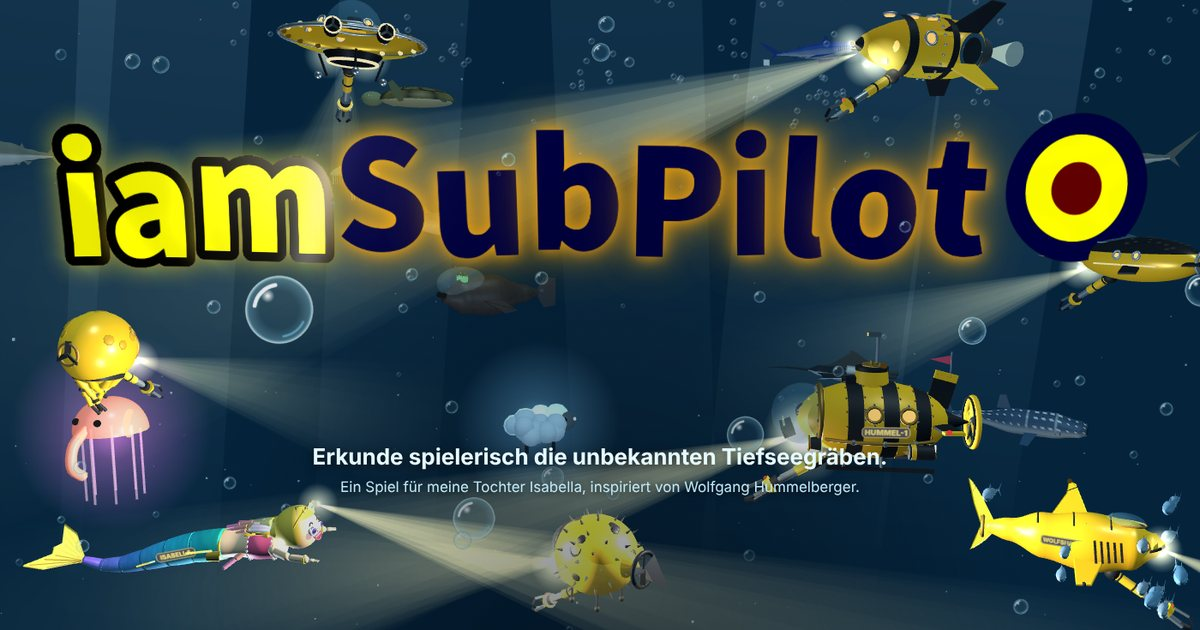
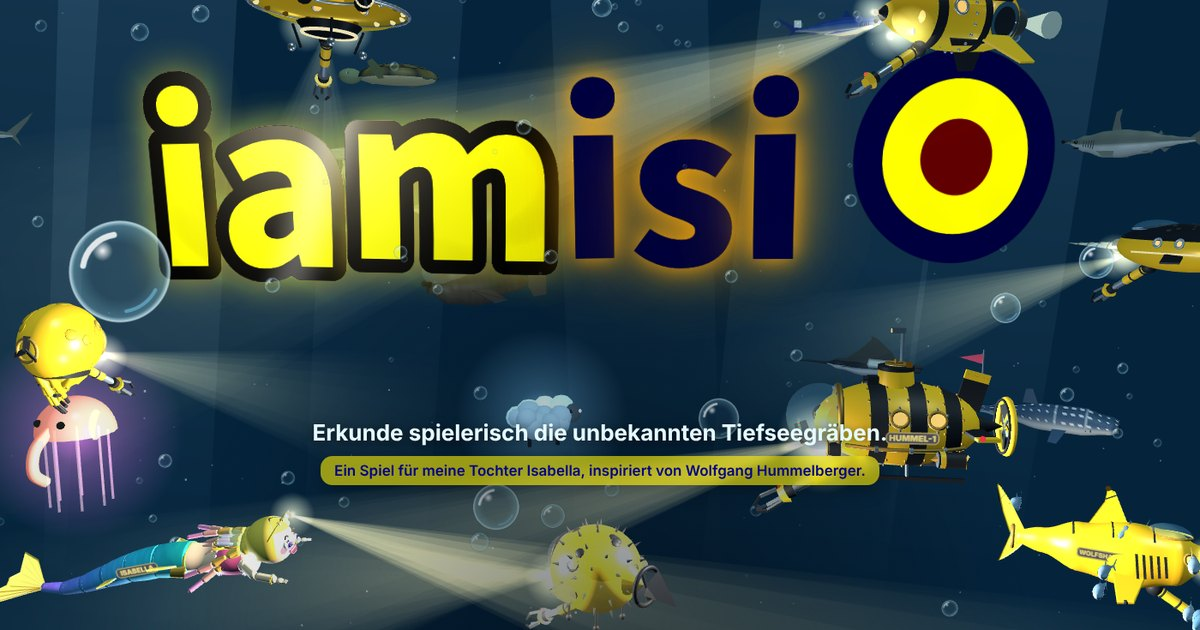
v0.10.0: the game is now called iamisi
- new name everywhere: wordmark, title animation, page title, link preview, privacy page
- 'isi' stands for Isabella and sounds like 'easy' – explained in the info text
- info text: observed deep seafloor compared with Austria (not even a twentieth, about Burgenland),
  Mars sentence bold italic, key words bold; Statistik Austria added to the sources
- title screen: dedication in a transparent yellow box
- repo, Pages URL and Netlify site keep their old names

Claude-Session: https://claude.ai/code/session_01LbVwi8JJQ37GBNhmuEaFEf

diff --git a/js/i18n.js b/js/i18n.js
@@ -323,8 +323,8 @@ const STRINGS = {
     mpNoRoomsCreate: 'No open room found – create a new one below!',
     infoKicker: 'Radio message from HMS Andrew',
     infoTitle: 'The last great journey of discovery on Earth',
-    infoP1: 'The deep sea – everything below 200 metres – covers about two thirds of our planet. Yet people have seen <b>less than 0.001%</b> of its floor with cameras or their own eyes: all together an area smaller than a tenth of Belgium. Only about <b>a quarter</b> of the seafloor has even been mapped in detail. We know more about the surface of Mars.',
-    infoP2: 'So down there, countless animals, landscapes and mysteries are waiting that no human has ever seen. iamSubPilot wants to make you curious about exactly that – playfully, but with real depths, real animals and real facts. Who knows: maybe you are the one who will one day discover a new species, map a trench or build a sub that dives deeper than any before.',
+    infoP1: 'The <b>deep sea</b> – everything below 200 metres – covers about <b>two thirds of our planet</b>. Yet people have seen <b>less than 0.001%</b> of its floor with cameras or their own eyes: all together <b>not even a twentieth of the area of Austria</b> – roughly the size of the Austrian state of Burgenland. Only about <b>a quarter</b> of the seafloor has even been mapped in detail. <b><i>We know more about the surface of Mars.</i></b>',
+    infoP2: 'So down there, <b>countless animals, landscapes and mysteries</b> are waiting that no human has ever seen. <b>iamisi</b> wants to make you curious about exactly that – playfully, but with <b>real depths, real animals and real facts</b>. That is also where the name comes from: <b>isi</b> stands for <b>Isabella</b>, for whom this game was made, and sounds like the English word <b>easy</b> – light and carefree, just the way discovering should feel. Who knows: maybe you are the one who will one day <b>discover a new species</b>, map a trench or build a sub that dives deeper than any before.',
     infoP4: 'Lights on, sonar ready – the deep is waiting for you.',
     infoButton: "Let's go ▸",
     infoSources: 'Sources',
@@ -699,8 +699,8 @@ const STRINGS = {
     mpNoRoomsCreate: 'Kein offener Raum gefunden – erstelle unten einen neuen!',
     infoKicker: 'Funkspruch von der HMS Andrew',
     infoTitle: 'Die letzte große Entdeckungsreise der Erde',
-    infoP1: 'Die Tiefsee – alles unterhalb von 200 Metern – bedeckt rund zwei Drittel unseres Planeten. Doch mit Kameras oder eigenen Augen haben Menschen davon bisher <b>weniger als 0,001 %</b> gesehen: zusammengenommen eine Fläche kleiner als ein Zehntel Belgiens. Selbst genau vermessen ist erst gut <b>ein Viertel</b> des Meeresbodens. Über die Oberfläche des Mars wissen wir mehr.',
-    infoP2: 'Da unten warten also unzählige Tiere, Landschaften und Rätsel, die noch kein Mensch gesehen hat. iamSubPilot will Lust darauf machen, genau dort hinzuschauen – spielerisch, aber mit echten Tiefen, echten Tieren und echten Fakten. Wer weiß: Vielleicht bist du die Person, die eines Tages eine neue Art entdeckt, einen Graben kartiert oder ein Tauchboot baut, das tiefer kommt als alle zuvor.',
+    infoP1: 'Die <b>Tiefsee</b> – alles unterhalb von 200 Metern – bedeckt rund <b>zwei Drittel unseres Planeten</b>. Doch mit Kameras oder eigenen Augen haben Menschen davon bisher <b>weniger als 0,001 %</b> gesehen: zusammengenommen <b>nicht einmal ein Zwanzigstel der Fläche Österreichs</b> – ungefähr so viel wie das Burgenland. Selbst genau vermessen ist erst gut <b>ein Viertel</b> des Meeresbodens. <b><i>Über die Oberfläche des Mars wissen wir mehr.</i></b>',
+    infoP2: 'Da unten warten also <b>unzählige Tiere, Landschaften und Rätsel</b>, die noch kein Mensch gesehen hat. <b>iamisi</b> will Lust darauf machen, genau dort hinzuschauen – spielerisch, aber mit <b>echten Tiefen, echten Tieren und echten Fakten</b>. Daher kommt auch der Name: <b>isi</b> steht für <b>Isabella</b>, für die dieses Spiel entstanden ist, und klingt wie das englische <b>easy</b> – leicht und unbeschwert, so wie Entdecken sein soll. Wer weiß: Vielleicht bist du die Person, die eines Tages eine <b>neue Art entdeckt</b>, einen Graben kartiert oder ein Tauchboot baut, das tiefer kommt als alle zuvor.',
     infoP4: 'Scheinwerfer an, Sonar bereit – die Tiefe wartet auf dich.',
     infoButton: 'Los geht\'s ▸',
     infoSources: 'Quellen',

diff --git a/style.css b/style.css
@@ -571,7 +571,9 @@ select option { background: var(--panel-solid); }
 .intro-bottom { display: flex; flex-direction: column; align-items: center; text-align: center; gap: 6px; cursor: default; }
 .intro-claim { font-size: clamp(17px, 2.6vw, 26px); font-weight: 700; color: #e6fbff; margin: 0; text-shadow: 0 2px 12px rgba(0, 0, 0, 0.7);
   animation: introIn 1.4s ease-out both 0.3s; }
-.intro-dedic { margin: 4px 0 0; color: #bfe9f7; font-size: clamp(13px, 1.8vw, 17px); text-shadow: 0 2px 10px rgba(0, 0, 0, 0.8); animation: introIn 1.4s ease-out both 0.9s; }
+.intro-dedic { margin: 6px 0 2px; padding: 7px 16px; max-width: min(92vw, 760px); color: var(--navy, #000088); font-weight: 600; font-size: clamp(13px, 1.8vw, 17px);
+  background: rgba(255, 237, 0, 0.6); border-radius: 14px; backdrop-filter: blur(5px) saturate(1.2); -webkit-backdrop-filter: blur(5px) saturate(1.2);
+  box-shadow: 0 6px 20px rgba(0, 0, 0, 0.3); animation: introIn 1.4s ease-out both 0.9s; }
 .intro-by { margin: 0 0 10px; color: #8fd8ee; font-size: clamp(12px, 1.6vw, 15px); letter-spacing: 0.06em; animation: introIn 1.4s ease-out both 1.3s; }
 .intro-bottom .btn { animation: introIn 1s ease-out both 1.8s, pulse 2.4s ease-in-out infinite 3s; }
 .intro-hint { color: #8fb3c7; font-size: 13px; min-height: 18px; margin-top: 4px; }
@@ -579,7 +581,7 @@ select option { background: var(--panel-solid); }
 @keyframes pulse { 0%, 100% { box-shadow: 0 0 0 0 rgba(56, 232, 255, 0.5); } 50% { box-shadow: 0 0 0 12px rgba(56, 232, 255, 0); } }
 .logo-btn { background-color: transparent; border: 0; cursor: pointer; text-align: left; font-family: inherit; line-height: 1.05; }
 .logo-btn:hover { filter: brightness(1.2); }
-@media (max-height: 500px) { .intro-claim { font-size: 15px; } .intro-dedic { font-size: 12px; margin-top: 0; } .intro-by { margin-bottom: 4px; font-size: 11px; } .intro-hint { display: none; } .intro-bottom { gap: 2px; } .intro-bottom .btn.big { padding: 10px 26px; font-size: 17px; } }
+@media (max-height: 500px) { .intro-claim { font-size: 15px; } .intro-dedic { font-size: 12px; margin-top: 0; padding: 4px 12px; } .intro-by { margin-bottom: 4px; font-size: 11px; } .intro-hint { display: none; } .intro-bottom { gap: 2px; } .intro-bottom .btn.big { padding: 10px 26px; font-size: 17px; } }
 
 /* ---------- underwater transition ---------- */
 #diveFx { position: fixed; inset: 0; pointer-events: none; z-index: 14; overflow: hidden; }
@@ -704,7 +706,7 @@ body.touch #radio { top: auto; bottom: calc(196px + var(--safe-b, 0px)); }
 @media (max-height: 500px) { body.touch #radio { bottom: auto; top: 96px; left: auto; right: calc(10px + var(--safe-r, 0px)); flex-direction: row-reverse; } body.touch #radioMenu { left: auto; right: 0; } }
 
 /* =====================================================================
-   iamSubPilot look: wordmark, yellow glass menus, footer bar like iamPilot
+   iamisi look: wordmark, yellow glass menus, footer bar like iamPilot
    ===================================================================== */
 @font-face { font-family: 'Source Sans 3'; font-style: normal; font-weight: 700; font-display: swap; src: url(fonts/source-sans-3-latin-700-normal.woff2) format('woff2'); }
 @font-face { font-family: 'Source Sans 3'; font-style: normal; font-weight: 800; font-display: swap; src: url(fonts/source-sans-3-latin-800-normal.woff2) format('woff2'); }
@@ -718,7 +720,7 @@ body.touch #radio { top: auto; bottom: calc(196px + var(--safe-b, 0px)); }
   --font-logo: 'Source Sans 3', 'Myriad Pro', 'Segoe UI', system-ui, sans-serif;
 }
 
-/* wordmark: "iam" 100 % yellow with a black outline, "SubPilot" in the navy of the roundel, roundel at the end */
+/* wordmark: "iam" 100 % yellow with a black outline, "isi" in the navy of the roundel, roundel at the end */
 .wm { margin: 0; font-family: var(--font-logo); font-weight: 800; line-height: 1; letter-spacing: -0.01em; white-space: nowrap; display: inline-flex; align-items: center; }
 .wm-iam { color: #ffff00; -webkit-text-stroke: 0.11em #000; paint-order: stroke fill; }
 .wm-sub { color: var(--navy); }

diff --git a/js/main.js b/js/main.js
@@ -1,4 +1,4 @@
-// iamSubPilot – main game controller: menu, dives, results, multiplayer.
+// iamisi – main game controller: menu, dives, results, multiplayer.
 
 import * as THREE from './vendor/three.min.js';
 import { World, SCALE, axisZ } from './world.js';
@@ -452,7 +452,7 @@ function tierLabel() {
 
 // ======================= branding: wordmark + footer bar (same as in iamPilot) =======================
 function wordmarkHtml(tag = 'span', attrs = '') {
-  return `<${tag} class="wm" aria-label="iamSubPilot" ${attrs}><span class="wm-iam">iam</span><span class="wm-sub">SubPilot</span><span class="wm-badge"></span></${tag}>`;
+  return `<${tag} class="wm" aria-label="iamisi" ${attrs}><span class="wm-iam">iam</span><span class="wm-sub">isi</span><span class="wm-badge"></span></${tag}>`;
 }
 function socialHtml() {
   return `<div class="social" role="group" aria-label="Connect with Andreas Schmölzer on social media"><span class="social-t">${t('connect')} <span class="social-hug" aria-hidden="true">🤗</span></span><a class="so so-ig" href="https://www.instagram.com/schmoelzerandreas" target="_blank" rel="noopener" aria-label="Instagram: schmoelzerandreas" title="Instagram"><svg viewBox="0 0 24 24" aria-hidden="true"><rect x="3.2" y="3.2" width="17.6" height="17.6" rx="5.2" fill="none" stroke="#fff" stroke-width="2.1"/><circle cx="12" cy="12" r="4.1" fill="none" stroke="#fff" stroke-width="2.1"/><circle cx="17.3" cy="6.7" r="1.35" fill="#fff"/></svg></a><a class="so so-fb" href="https://www.facebook.com/andreas.schmoelzer" target="_blank" rel="noopener" aria-label="Facebook: andreas.schmoelzer" title="Facebook"><svg viewBox="0 0 24 24" aria-hidden="true"><path fill="#fff" d="M13.6 21.5v-7.7h2.6l.4-3.1h-3V8.8c0-.9.3-1.5 1.5-1.5h1.6V4.5c-.3 0-1.2-.1-2.3-.1-2.3 0-3.9 1.4-3.9 4v2.3H7.9v3.1h2.6v7.7z"/></svg></a><a class="so so-tt" href="https://www.tiktok.com/@andreasschmoelzer" target="_blank" rel="noopener" aria-label="TikTok: @andreasschmoelzer" title="TikTok"><svg viewBox="0 0 24 24" aria-hidden="true"><g transform="translate(-0.7,-0.6)"><path fill="#25f4ee" d="M16.6 5.6a4.4 4.4 0 0 1-1.1-2.9h-3.2v12.6a2.7 2.7 0 1 1-1.9-2.6V9.4a5.9 5.9 0 1 0 5.1 5.9V9a7.5 7.5 0 0 0 4.4 1.4V7.2a4.4 4.4 0 0 1-3.3-1.6z"/></g><g transform="translate(0.7,0.6)"><path fill="#fe2c55" d="M16.6 5.6a4.4 4.4 0 0 1-1.1-2.9h-3.2v12.6a2.7 2.7 0 1 1-1.9-2.6V9.4a5.9 5.9 0 1 0 5.1 5.9V9a7.5 7.5 0 0 0 4.4 1.4V7.2a4.4 4.4 0 0 1-3.3-1.6z"/></g><path fill="#fff" d="M16.6 5.6a4.4 4.4 0 0 1-1.1-2.9h-3.2v12.6a2.7 2.7 0 1 1-1.9-2.6V9.4a5.9 5.9 0 1 0 5.1 5.9V9a7.5 7.5 0 0 0 4.4 1.4V7.2a4.4 4.4 0 0 1-3.3-1.6z"/></svg></a><a class="so so-yt" href="https://www.youtube.com/user/pilotFilmSchmoelzer" target="_blank" rel="noopener" aria-label="YouTube: pilotFilmSchmoelzer" title="YouTube"><svg viewBox="0 0 24 24" aria-hidden="true"><path fill="#fff" d="M9.6 7.9v8.2l6.9-4.1z"/></svg></a><a class="so so-li" href="https://www.linkedin.com/in/andreasschmoelzer" target="_blank" rel="noopener" aria-label="LinkedIn: andreasschmoelzer" title="LinkedIn"><svg viewBox="0 0 24 24" aria-hidden="true"><circle cx="6.9" cy="6.6" r="1.75" fill="#fff"/><rect x="5.4" y="9.4" width="3" height="9.4" fill="#fff"/><path fill="#fff" d="M10.6 9.4h2.9v1.3c.4-.8 1.5-1.6 3.1-1.6 3.2 0 3.7 2 3.7 4.7v5h-3v-4.4c0-1.1 0-2.5-1.5-2.5s-1.8 1.2-1.8 2.4v4.5h-3z"/></svg></a></div>`;
@@ -623,6 +623,7 @@ function showInfo(onDone) {
     ['NOAA Ocean Exploration', 'https://oceanexplorer.noaa.gov/okeanos/explorations/ex2102/features/hadalzone/hadalzone.html'],
     ['WHOI', 'https://www.whoi.edu/know-your-ocean/ocean-topics/seafloor-below/ocean-trenches/'],
     ['University of New Hampshire', 'https://www.eurekalert.org/news-releases/1082877'],
+    ['Statistik Austria / BEV (WKO)', 'https://www.wko.at/statistik/bundesland/flaecheben.pdf'],
   ];
   showModal(`<div class="info-kicker">${t('infoKicker')}</div>
     <h1>${t('infoTitle')}</h1>

diff --git a/privacy.html b/privacy.html
@@ -3,7 +3,7 @@
 <head>
 <meta charset="utf-8">
 <meta name="viewport" content="width=device-width, initial-scale=1">
-<title>iamSubPilot – Datenschutz / Privacy</title>
+<title>iamisi – Datenschutz / Privacy</title>
 <meta name="robots" content="noindex">
 <link rel="icon" href="favicon.svg" type="image/svg+xml">
 <style>
@@ -34,7 +34,7 @@ code { font-size: 13px; background: #f3f3f3; padding: 1px 4px; border-radius: 3p
 </head>
 <body>
 <header><div>
-  <h1><span class="wm"><span class="wm-iam">iam</span><span class="wm-sub">SubPilot</span></span> – Datenschutzerklärung</h1>
+  <h1><span class="wm"><span class="wm-iam">iam</span><span class="wm-sub">isi</span></span> – Datenschutzerklärung</h1>
   <p>Stand: November 2026 · <a href="#en">English</a> · <a href="./">zurück zum Spiel</a></p>
 </div></header>
 <main>
@@ -94,7 +94,7 @@ code { font-size: 13px; background: #f3f3f3; padding: 1px 4px; border-radius: 3p
   <p>Du hast das Recht auf Auskunft, Berichtigung, Löschung, Einschränkung, Datenübertragbarkeit und Widerspruch. Wende dich dazu an die Kontaktdaten im <a href="https://www.pilotfilm.at/impressum" target="_blank" rel="noopener">Impressum</a>. Beschwerden kannst du bei der österreichischen Datenschutzbehörde einbringen (<a href="https://www.dsb.gv.at" target="_blank" rel="noopener">www.dsb.gv.at</a>).</p>
 
   <h2>Hinweis zu den Inhalten</h2>
-  <p>iamSubPilot ist ein Spiel. Tiefen, Tiere und Fakten stammen aus den im Spiel genannten Quellen und sind vereinfacht. Fantasie-Tiere sind deutlich als Fantasie gekennzeichnet.</p>
+  <p>iamisi ist ein Spiel. Tiefen, Tiere und Fakten stammen aus den im Spiel genannten Quellen und sind vereinfacht. Fantasie-Tiere sind deutlich als Fantasie gekennzeichnet.</p>
 
   <section class="en" id="en" lang="en">
     <h1 style="font-size:24px;margin:0">Privacy policy (English)</h1>
@@ -129,7 +129,7 @@ code { font-size: 13px; background: #f3f3f3; padding: 1px 4px; border-radius: 3p
     <p>The game is also made for children and young people. It never asks for a real name: use a nickname and don't share personal details over the radio. Voice radio is only unlocked from age 14. Younger players can only send quick calls with fixed phrases.</p>
     <h2>8. Your rights</h2>
     <p>You have the right of access, rectification, erasure, restriction, data portability and objection. Please use the contact details in the <a href="https://www.pilotfilm.at/impressum" target="_blank" rel="noopener">imprint</a>. You can lodge a complaint with the Austrian Data Protection Authority (<a href="https://www.dsb.gv.at" target="_blank" rel="noopener">www.dsb.gv.at</a>).</p>
-    <p class="note">iamSubPilot is a game. Depths, animals and facts come from the sources named in the game and are simplified. Fantasy creatures are clearly marked as fantasy.</p>
+    <p class="note">iamisi is a game. Depths, animals and facts come from the sources named in the game and are simplified. Fantasy creatures are clearly marked as fantasy.</p>
     <p><a href="./">← back to the game</a></p>
   </section>
 </main>

diff --git a/index.html b/index.html
@@ -6,21 +6,21 @@
   <meta name="theme-color" content="#000088">
   <meta name="apple-mobile-web-app-capable" content="yes">
   <meta name="apple-mobile-web-app-status-bar-style" content="black-translucent">
-  <title>iamSubPilot – Expedition into the deep-sea trenches</title>
+  <title>iamisi – Expedition into the deep-sea trenches</title>
   <meta name="description" content="Steer a research submersible into the deepest trenches on Earth. A 3D browser game about the deep sea by Andreas Schmölzer (pilotFilm).">
   <meta property="og:type" content="website">
-  <meta property="og:site_name" content="iamSubPilot">
+  <meta property="og:site_name" content="iamisi">
   <meta property="og:locale" content="de_AT">
   <meta property="og:locale:alternate" content="en_US">
-  <meta property="og:title" content="iamSubPilot – Expedition in die Tiefseegräben">
+  <meta property="og:title" content="iamisi – Expedition in die Tiefseegräben">
   <meta property="og:description" content="Tauche in die tiefsten Gräben der Erde, entdecke echtes Tiefseeleben (und ein paar verrückte Fantasiewesen) – allein oder mit Freunden.">
   <meta property="og:image" content="https://pilot-2026.github.io/iamSubPilot/assets/og-image.jpg">
   <meta property="og:image:type" content="image/jpeg">
   <meta property="og:image:width" content="1200">
   <meta property="og:image:height" content="630">
-  <meta property="og:image:alt" content="iamSubPilot Startbildschirm: Schriftzug mit vielen U-Booten, der Meerjungfrau Isabella und Fischschwärmen in der Tiefsee">
+  <meta property="og:image:alt" content="iamisi Startbildschirm: Schriftzug mit vielen U-Booten, der Meerjungfrau Isabella und Fischschwärmen in der Tiefsee">
   <meta name="twitter:card" content="summary_large_image">
-  <meta name="twitter:title" content="iamSubPilot – Expedition in die Tiefseegräben">
+  <meta name="twitter:title" content="iamisi – Expedition in die Tiefseegräben">
   <meta name="twitter:description" content="Tauche in die tiefsten Gräben der Erde, entdecke echtes Tiefseeleben – allein oder mit Freunden.">
   <meta name="twitter:image" content="https://pilot-2026.github.io/iamSubPilot/assets/og-image.jpg">
   <link rel="icon" href="favicon.svg" type="image/svg+xml">
@@ -32,7 +32,7 @@
   <canvas id="c"></canvas>
 
   <div id="loading" class="screen">
-    <div class="load-card"><h1 class="wm" aria-label="iamSubPilot"><span class="wm-iam">iam</span><span class="wm-sub">SubPilot</span><span class="wm-badge"></span></h1>
+    <div class="load-card"><h1 class="wm" aria-label="iamisi"><span class="wm-iam">iam</span><span class="wm-sub">isi</span><span class="wm-badge"></span></h1>
     <div id="loadingText">Loading…</div></div>
   </div>
 

diff --git a/js/intro.js b/js/intro.js
@@ -1,5 +1,5 @@
 // Title screen + menu background: a small "aquarium" with many real and
-// fantasy animals circling the wordmark "iamSubPilot" (it assembles itself
+// fantasy animals circling the wordmark "iamisi" (it assembles itself
 // letter by letter, water shader on the letters) and a fleet of subs
 // cruising around it with their lights on.
 
@@ -10,11 +10,11 @@ import { buildSubModel, animateSubModel } from './sub.js';
 import { fishGeometry, fishMaterial, fishTime } from './schools.js';
 import { mulberry32, clamp, lerp } from './util.js';
 
-const TEXT_W = 26, TEXT_H = 6.5, TEXT_Y = 2.2;
+const TEXT_W = 20, TEXT_H = 6.5, TEXT_Y = 2.2; // TEXT_W: world width of the wordmark "iamisi" + roundel
 // ?ogshot=1: a crowded, posed aquarium for the link preview picture (assets/og-image.jpg)
 const OG = new URLSearchParams(location.search).get('ogshot') === '1';
-const WORD = 'iamSubPilot';
-const N_IAM = 3; // "iam" yellow with black outline, "SubPilot" navy
+const WORD = 'iamisi';
+const N_IAM = 3; // "iam" yellow with black outline, "isi" navy
 const FONT = '"Source Sans 3", "Myriad Pro", "Segoe UI", system-ui, sans-serif';
 const F = 300; // font size on the letter canvases (px)
 
@@ -50,7 +50,7 @@ function letterCanvas(ch, iam, adv) {
     g.fillStyle = '#ffff00';
     g.fillText(ch, x, y);
   } else {
-    // "SubPilot": navy, no outline – lit warmly from behind so it stands out from the dark water
+    // "isi": navy, no outline – lit warmly from behind so it stands out from the dark water
     g.save();
     g.fillStyle = '#ffd84a';
     g.shadowColor = 'rgba(255,214,60,1)';
@@ -208,7 +208,7 @@ export class Aquarium {
     sun.position.set(0.3, 1, 0.4);
     this.scene.add(sun);
 
-    // the wordmark "iamSubPilot" + roundel, built from one plane per letter (assembles itself)
+    // the wordmark "iamisi" + roundel, built from one plane per letter (assembles itself)
     this.textU = {
       uTime: { value: 0 },
       uTextY: { value: TEXT_Y },

diff --git a/js/config.js b/js/config.js
@@ -1,4 +1,4 @@
-// iamSubPilot – configuration
+// iamisi – configuration
 //
 // 1) Online features (leaderboard, multiplayer) need a Firebase project.
 //    Paste the web config from the Firebase console here (see FIREBASE-SETUP.md).
@@ -19,4 +19,4 @@ export const AI_ENDPOINT = null;
 //    reachable, rooms fall back to direct browser-to-browser connections (PeerJS).
 export const MP_SITE = 'https://iamsubpilot.netlify.app';
 
-export const GAME_VERSION = '0.9.9';
+export const GAME_VERSION = '0.10.0';

diff --git a/js/radio.js b/js/radio.js
@@ -1,4 +1,4 @@
-// iamSubPilot radio ("Funk"): push-to-talk voice between the divers of a room.
+// iamisi radio ("Funk"): push-to-talk voice between the divers of a room.
 // Its own channel, nothing shared with any other game. In LiveKit rooms the voice goes through the game's own
 // LiveKit project (one audio track per diver, silent unless the radio button is held); in peer-to-peer rooms
 // it travels directly between the browsers (WebRTC media calls over PeerJS). Voice is never stored.

diff --git a/CLAUDE.md b/CLAUDE.md
@@ -1,12 +1,12 @@
-# iamSubPilot – notes for working on this repo
+# iamisi – notes for working on this repo
 
-(Formerly called HADAL. Internal names such as the `hadal.*` localStorage keys and the PeerJS prefix `hadal-v1-` stay as they are, so saved progress and rooms keep working.)
+(Formerly iamSubPilot, before that HADAL. The name: "isi" stands for Isabella and sounds like the English "easy" – light, carefree; this is explained in the info text after the title screen (`infoP2`). Internal names such as the `hadal.*` localStorage keys and the PeerJS prefix `hadal-v1-` stay as they are, so saved progress and rooms keep working; the GitHub repo `Pilot-2026/iamSubPilot`, its Pages URL and the Netlify site `iamsubpilot.netlify.app` (LiveKit + cloud functions, `MP_SITE`) also keep the old name.)
 
 Browser game (three.js, plain ES modules, no build step), hosted on GitHub Pages from `main`.
 Owner: Andreas Schmölzer (pilotFilm). Must stay completely separate from his other games (own repo, own Firebase project). Touch controls: joystick + up/down on the right, action buttons on the left.
 
 ## Structure
-- `index.html`, `style.css` – shell, HUD markup, styles (mobile + desktop; on extremely wide screens ≥ 2.6:1 the whole HUD sits in a centred 2.6 × height area – `--edge`, `#hud` with transform); menus and dialogs are yellow glass (`--sun-glass`), wordmark `.wm` ("iam" #ffff00 with black outline, "SubPilot" #000088, roundel `assets/roundel.svg`)
+- `index.html`, `style.css` – shell, HUD markup, styles (mobile + desktop; on extremely wide screens ≥ 2.6:1 the whole HUD sits in a centred 2.6 × height area – `--edge`, `#hud` with transform); menus and dialogs are yellow glass (`--sun-glass`), wordmark `.wm` ("iam" #ffff00 with black outline, "isi" #000088, roundel `assets/roundel.svg`); the title screen dedication (`.intro-dedic`) sits in a transparent yellow box
 - `privacy.html` – privacy policy (DE + EN); imprint is https://www.pilotfilm.at/impressum
 - `assets/` – roundel, logos and portrait for the footer bar (identical to iamPilot's), `fonts/` – Source Sans 3 (self-hosted, no Google Fonts)
 - Team data is state, not just events: player fields `md` (finished missions, `missionKey`), `ph` (own photos), `col` (own finds `[item id, kind]`), `atl`; all scoped to one dive by `dv` (= the dive's seed, reset at every dive start) – teammates and latecomers take everything over, nothing from an earlier dive in the same room counts
@@ -16,7 +16,7 @@ Owner: Andreas Schmölzer (pilotFilm). Must stay completely separate from his ot
 - `js/sub.js` – movement capped at 500 km/h horizontally even with boost, strong headlight (spot 150, range 70–110); eight original sub designs (`SUB_MODELS`: isabella (mermaid sub, no. 1, built from `js/merfolk.js`, laughing face, no claw: grabs with her right hand – `info.hand` → `updateHandGrab`, the find floats into her palm), hummel, wolfshark (2nd in the picker, name plates "WOLFSHARK"), puffer, narwhal, octopus, rocket, ufo; merged parts via `js/parts.js`), movement; `RemoteSub` for teammates (model sent as player field `sub`)
 - `js/launch.js` – launch from the ship (HMS Andrew): A-frame, chains, splash, underwater transition (skippable); `Recovery` = the reverse when surfacing (crane lifts the sub back on deck, then results)
 - `js/schools.js` – instanced fish schools (decorative, upper ocean + twilight glow shoals)
-- `js/intro.js` – title screen / menu background aquarium (the wordmark assembles itself letter by letter: one plane per letter + roundel coin, water shader, animals, subs; `?ogshot=1` = crowded posed scene used to shoot the link preview `assets/og-image.jpg`, 1200×630, keep it under 300 KB for WhatsApp; og/twitter meta tags in `index.html`)
+- `js/intro.js` – title screen / menu background aquarium (the wordmark "iamisi" assembles itself letter by letter: one plane per letter + roundel coin, `TEXT_W` = its world width, water shader, animals, subs; `?ogshot=1` = crowded posed scene used to shoot the link preview `assets/og-image.jpg`, 1200×630, keep it under 300 KB for WhatsApp; og/twitter meta tags in `index.html`)
 - `js/creatures.js` – fantasy creature models, spawning, behaviour, photo/grab targeting
 - `js/models.js` + `js/detail.js` – detailed real animals (incl. 10 shark species from one `buildShark()` config) and seafloor objects (lofted, vertex-painted bodies, fins, eyes); keep the userData animation hooks (fluke, tail, wings, flips, fins, bell, eyes, ears, cape, glow, strobe)
 - `js/merfolk.js` – mermaid figure (`buildMerFigure` + `animMer`: segmented tail, fluke, fins, arms with strokes and waving, hair chains, blinking) in two palettes (ISABELLA sub / mermaid of Atlantis) and Neptune (`buildNeptune` + `animNeptune`: beard, crown, cape, merman tail, glowing trident). Neptune and the Atlantis mermaid are secret: only in Atlantis, never on the title screen

diff --git a/README.md b/README.md
@@ -1,6 +1,6 @@
-# iamSubPilot – Expedition into the deep-sea trenches
+# iamisi – Expedition into the deep-sea trenches
 
-A 3D browser game about the deepest places on Earth – a game for Isabella, inspired by Wolfgang Hummelberger. Pick one of eight crazy subs (the mermaid sub ISABELLA, bumblebee HUMMEL-1, shark-shaped WOLFSHARK, pufferfish ball, narwhal with drill horn, octopus, retro rocket or deep-sea UFO). It is lowered from the research ship HMS Andrew on chains, splashes into the sea and dives into seven real ocean trenches. Meet dolphins, whales, turtles, ten kinds of sharks (hammerheads, great white, blue shark, goblin, frilled, cookiecutter, ninja lanternshark, sixgill, Greenland shark and the deepest one, the Portuguese dogfish) and huge fish schools, photograph real deep-sea animals (and a few clearly marked, completely crazy fantasy creatures), ask the onboard AI scientist Dr. Echo anything, and answer age-adapted questions after each dive. Alone or with up to four friends.
+A 3D browser game about the deepest places on Earth – a game for Isabella, inspired by Wolfgang Hummelberger. The name: **isi** stands for Isabella and sounds like the English word *easy* – light and carefree, the way discovering should feel (formerly iamSubPilot). Pick one of eight crazy subs (the mermaid sub ISABELLA, bumblebee HUMMEL-1, shark-shaped WOLFSHARK, pufferfish ball, narwhal with drill horn, octopus, retro rocket or deep-sea UFO). It is lowered from the research ship HMS Andrew on chains, splashes into the sea and dives into seven real ocean trenches. Meet dolphins, whales, turtles, ten kinds of sharks (hammerheads, great white, blue shark, goblin, frilled, cookiecutter, ninja lanternshark, sixgill, Greenland shark and the deepest one, the Portuguese dogfish) and huge fish schools, photograph real deep-sea animals (and a few clearly marked, completely crazy fantasy creatures), ask the onboard AI scientist Dr. Echo anything, and answer age-adapted questions after each dive. Alone or with up to four friends.
 
 **A game by Andreas Schmölzer · [www.pilotFilm.at](https://www.pilotfilm.at)**
 

diff --git a/ONLINE-SETUP.md b/ONLINE-SETUP.md
@@ -1,6 +1,6 @@
 # Online-Räume einrichten (LiveKit + Netlify) – wie bei iamPilot, aber komplett getrennt
 
-Damit Mehrspieler in **jedem** Netz klappt (auch iPhone und Tesla im Mobilfunk), laufen die Räume über LiveKit – genau wie beim Segelflugspiel iamPilot. iamSubPilot bekommt dafür ein **eigenes LiveKit-Projekt** und eine **eigene Netlify-Seite**. Nichts wird mit iamPilot geteilt.
+Damit Mehrspieler in **jedem** Netz klappt (auch iPhone und Tesla im Mobilfunk), laufen die Räume über LiveKit – genau wie beim Segelflugspiel iamPilot. iamisi bekommt dafür ein **eigenes LiveKit-Projekt** und eine **eigene Netlify-Seite**. Nichts wird mit iamPilot geteilt.
 
 Ohne diese Einrichtung läuft das Spiel trotzdem: Die Räume verbinden sich dann direkt von Browser zu Browser (im selben WLAN klappt das, zwischen Mobilfunknetzen oft nicht).
 
@@ -18,7 +18,7 @@ Dauer: etwa 10 Minuten. Kosten: Der kostenlose „Build“-Tarif von LiveKit und
 
 Das Secret gehört **nie** ins GitHub-Repo – nur in Netlify (Schritt 3).
 
-## 2. Eigene Netlify-Seite für iamSubPilot
+## 2. Eigene Netlify-Seite für iamisi
 
 1. <https://app.netlify.com> → **Add new site → Import an existing project → GitHub**.
 2. Repository **Pilot-2026/iamSubPilot** wählen.

diff --git a/FIREBASE-SETUP.md b/FIREBASE-SETUP.md
@@ -1,6 +1,6 @@
 # Firebase einrichten (Besucherstatistik + Bestenliste online)
 
-Ohne Firebase läuft iamSubPilot trotzdem: Mehrspieler geht direkt von Browser zu Browser (PeerJS), die Bestenliste und die Statistik (5 × die Taste 9 drücken oder 5 × auf die Versionsnummer tippen) zeigen dann aber nur das eigene Gerät. Mit diesen Schritten bekommt das Spiel ein **eigenes, neues Firebase-Projekt** – getrennt vom Segelflugspiel.
+Ohne Firebase läuft iamisi trotzdem: Mehrspieler geht direkt von Browser zu Browser (PeerJS), die Bestenliste und die Statistik (5 × die Taste 9 drücken oder 5 × auf die Versionsnummer tippen) zeigen dann aber nur das eigene Gerät. Mit diesen Schritten bekommt das Spiel ein **eigenes, neues Firebase-Projekt** – getrennt vom Segelflugspiel.
 
 Für die **Statistik** reichen die Schritte 1, 3, 5 und 6. Schritt 2 (anonyme Anmeldung) braucht nur die Online-Bestenliste. Schritt 4 ist optional.
 
